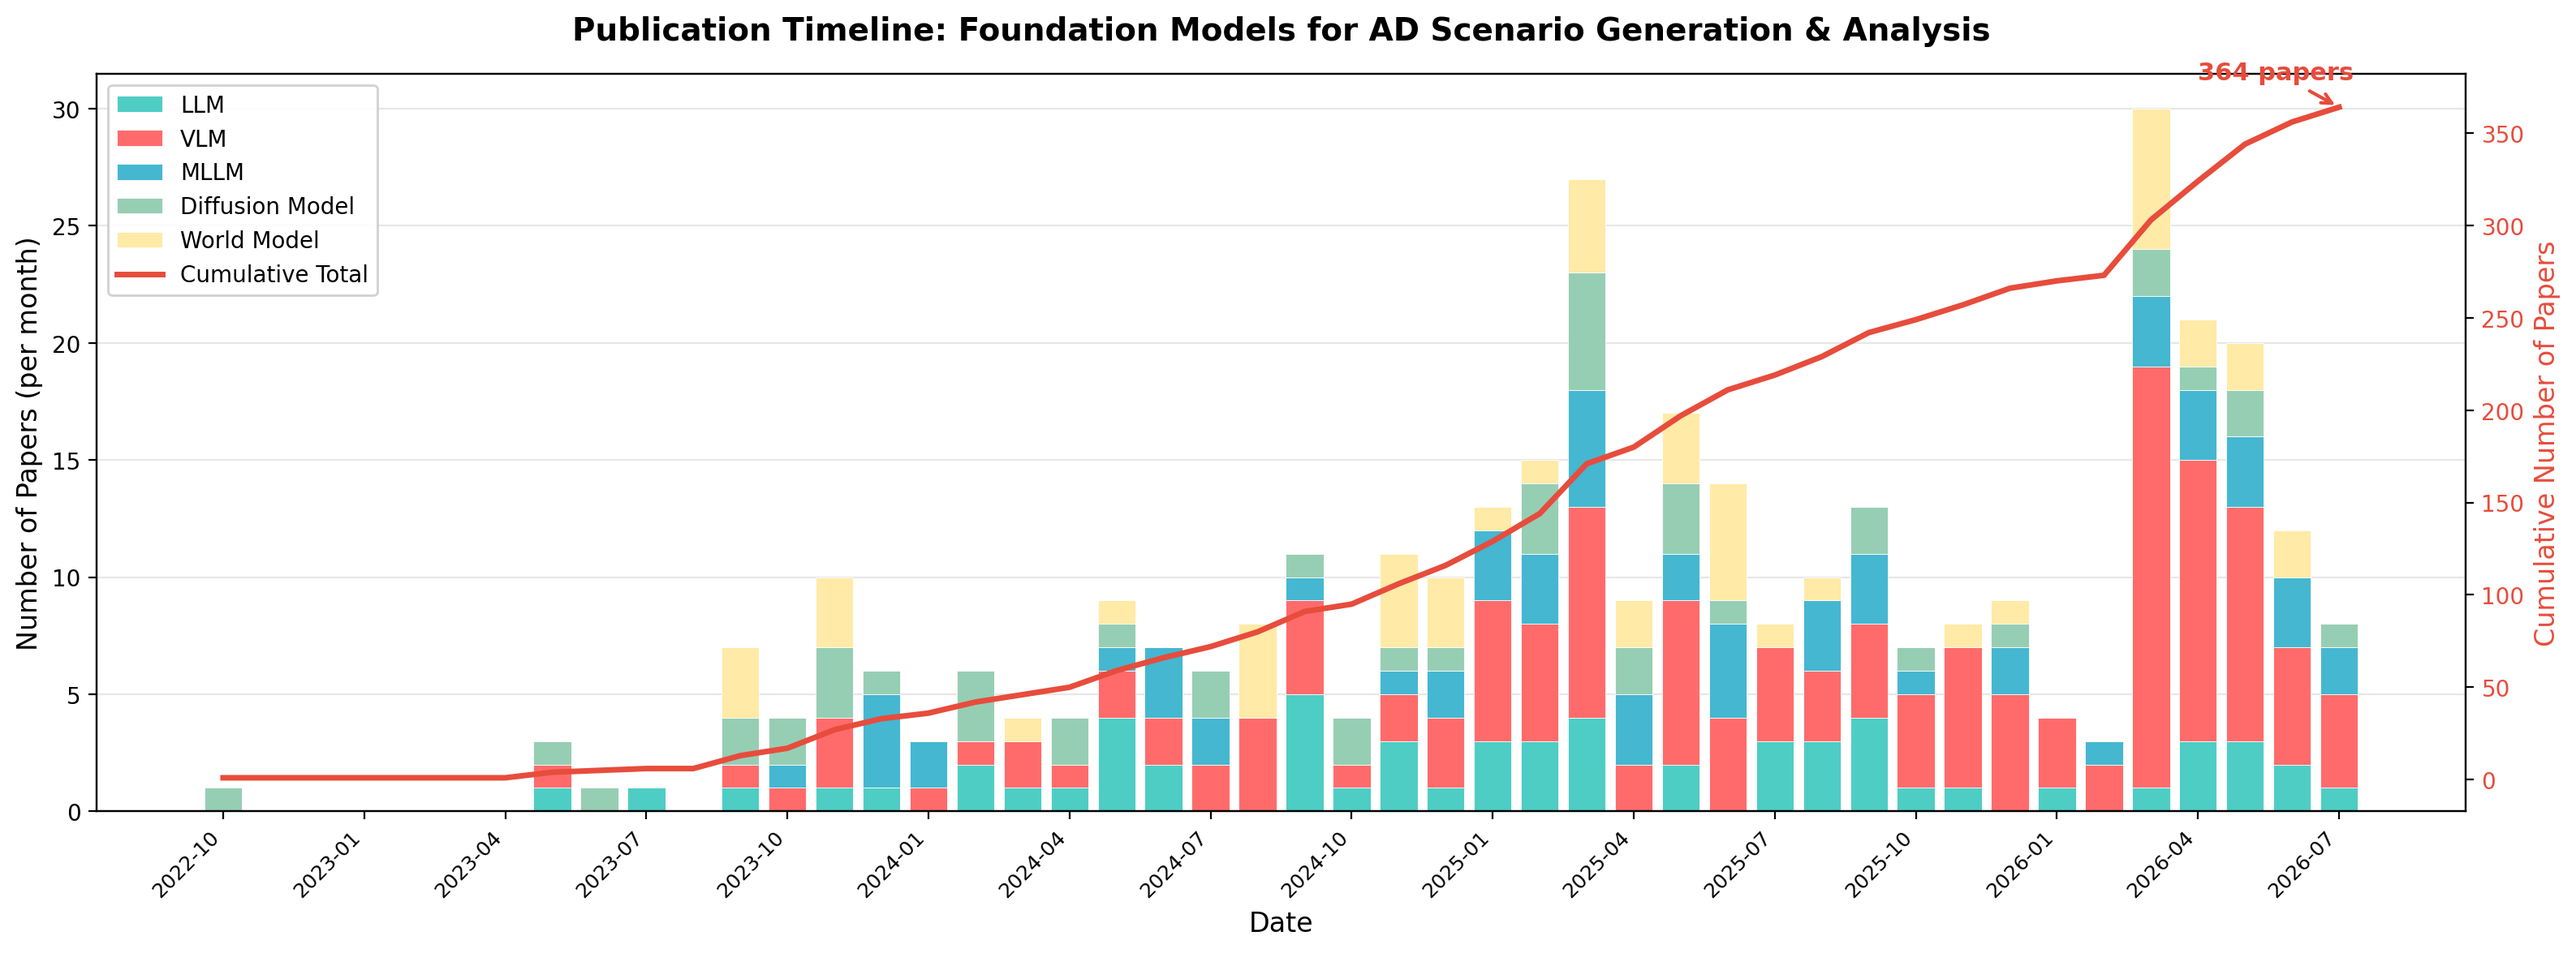
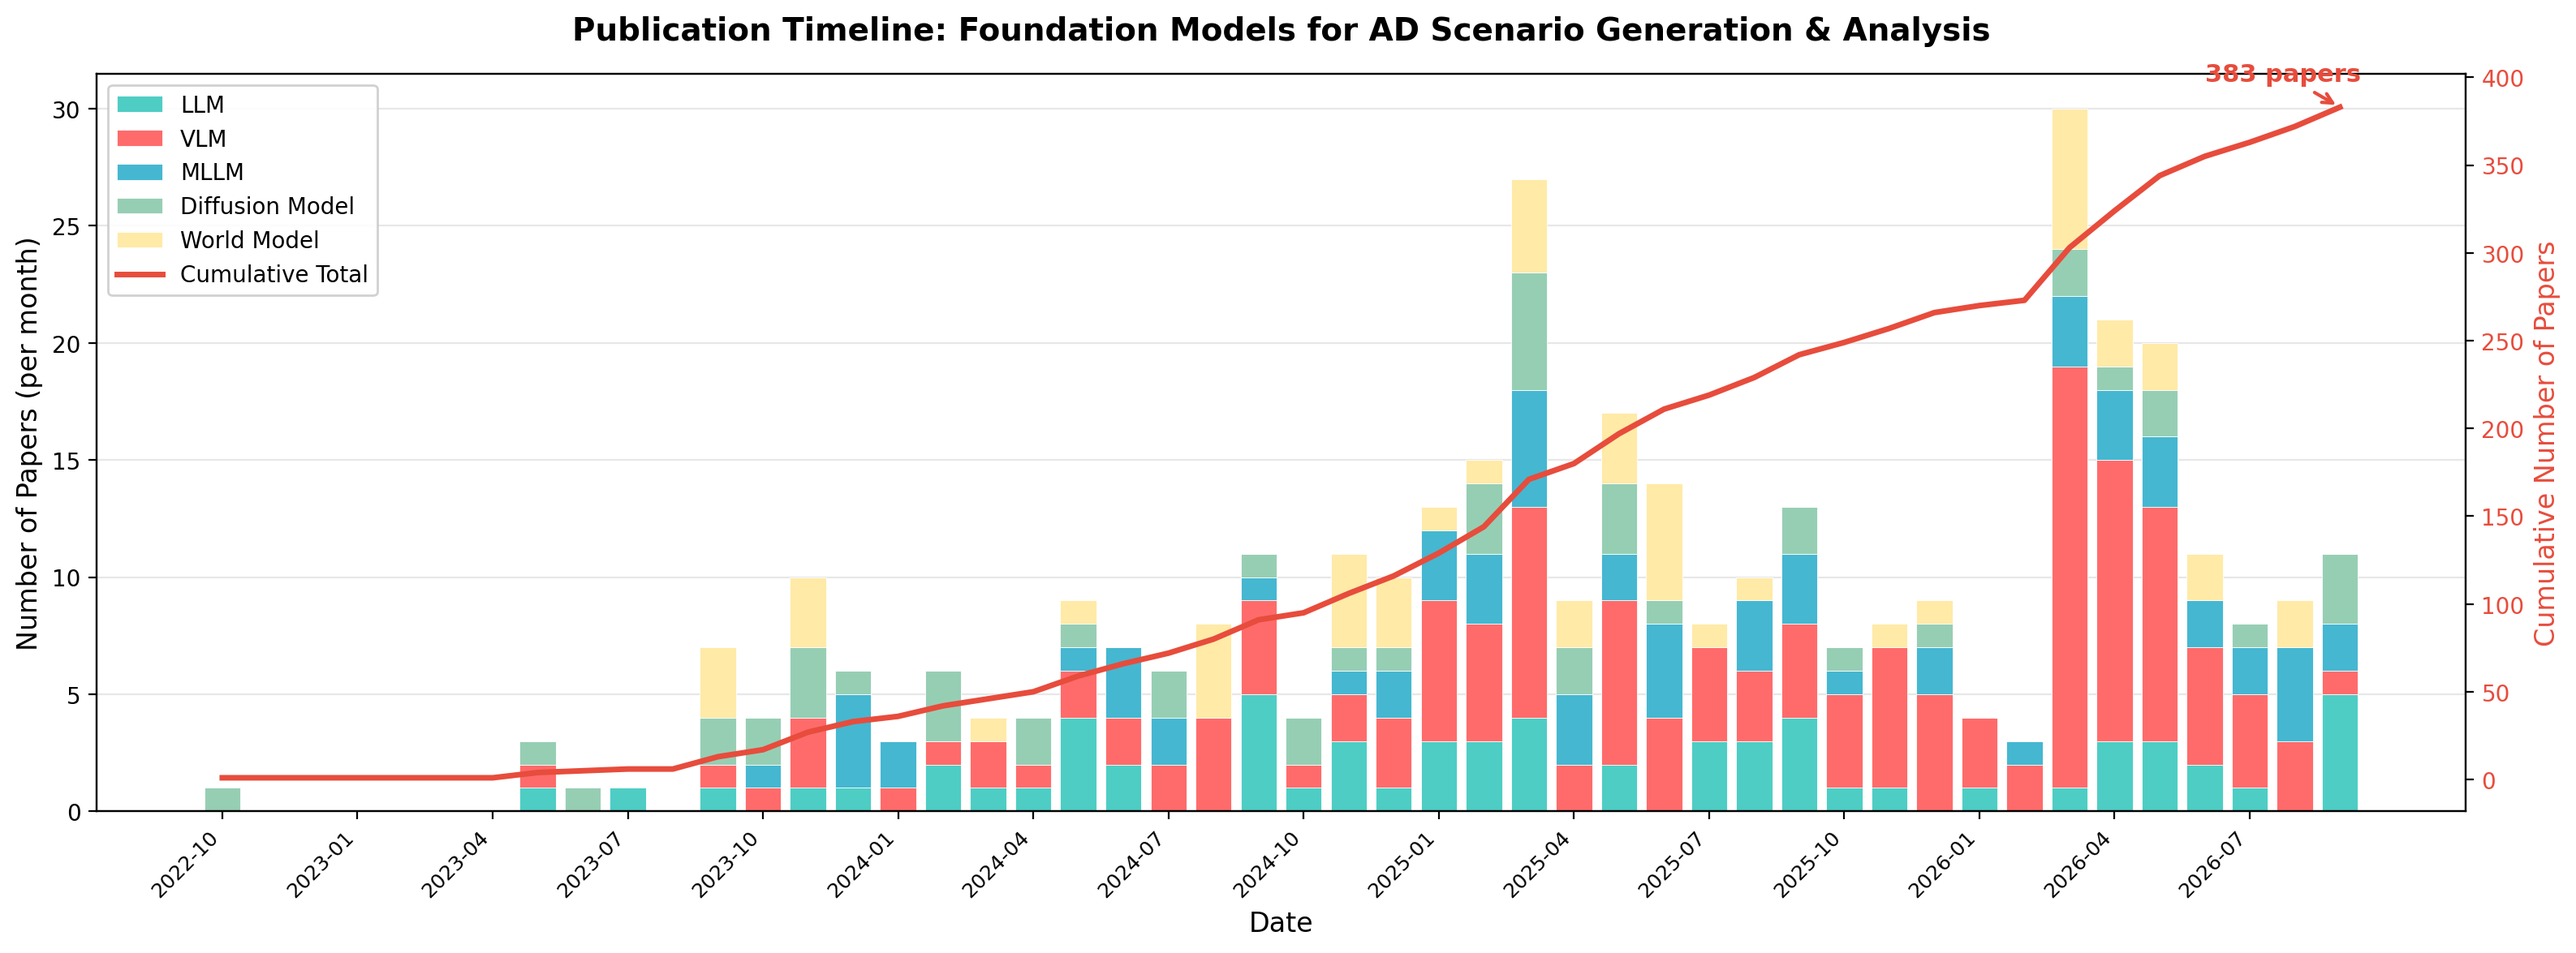
Add 20 new papers (9 generation + 11 analysis) from August 2026 and regenerate timeline

diff --git a/README.md b/README.md
@@ -19,6 +19,7 @@ This repository will collect research, implementations, and resources related to
 <img src="Assets/paper_timeline.png" width="100%" height="auto"/>
 </p>
 
+- **Aug. 2026** – Added **9 new papers** on scenario generation* and **11 new papers** on scenario analysis*.
 - **Jul. 2026** – Added **4 new papers** on scenario generation* and **14 new papers** on scenario analysis*.
 - **Jun. 2026** – Added **33 new papers** on scenario analysis* (monthly backlog catch-up spanning Dec 2023 – Jun 2026).
 - **May 2026** – Added **7 new papers** on scenario generation* and **19 new papers** on scenario analysis*.
@@ -145,6 +146,10 @@ The figure illustrates the evolution of foundation models. **LLMs** (e.g., BERT,
 | [Traffic Scenario Orchestration from Language via Constraint Satisfaction](https://arxiv.org/abs/2605.06966) | 2026-05 | arXiv | - | - | 0 |
 | [PCASim: Promptable Closed-loop Adversarial Simulation for Urban Traffic Environment](https://arxiv.org/abs/2605.15654) | 2026-05 | arXiv | [Project](https://zhenhaooo.github.io/PCASim.github.io/) | - | 0 |
 | [TrafficAlign: Aligning Large Language Models for Traffic Scenario Generation](https://github.com/TrafficComposer/TrafficAlign) | 2026-06 | CVPR 2026 | [GitHub](https://github.com/TrafficComposer/TrafficAlign) | - | 0 |
+| [REARL: A Closed-loop Autonomous Driving Simulation Enhancement Framework with Real Traffic Data and Large Language Models](https://arxiv.org/abs/2609.19903) | 2026-09 | arXiv | - | - | 0 |
+| [LLM-Guided Transformation of Non-Critical Driving Scenes into Safety-Critical Scenarios Using Augmented Reality](https://arxiv.org/abs/2609.20318) | 2026-09 | arXiv | - | - | 0 |
+| [SimSkill: A Self-Evolving LLM Agent for Skill and Knowledge Accumulation in Traffic Simulation](https://arxiv.org/abs/2609.03753) | 2026-09 | arXiv | [GitHub](https://github.com/qiliuchn/SimSkill-V1) | M1 Max & API | 0 |
+| [PlannerForge: LLM Agents for Scenario-Based Testing of Motion Planners in Autonomous Driving](https://arxiv.org/abs/2609.08965) | 2026-09 | EMNLP 2026 | [GitHub](https://github.com/TUM-AVS/PlannerForge) | RTX5090 & API | 0 |
 </details>
 
 <details open>
@@ -171,6 +176,7 @@ The figure illustrates the evolution of foundation models. **LLMs** (e.g., BERT,
 | [Pedestrian-Aware LLM-Driven Behavioral Planning for Autonomous Vehicles](https://arxiv.org/abs/2605.16858) | 2026-05 | IEEE ITSC 2026 | - | - | 0 |
 | [AutoMine Solution for AV2 2026 Scenario Mining Challenge](https://arxiv.org/abs/2606.11874) | 2026-06 | arXiv | - | - | 0 |
 | [A knowledge-augmented dataset of high-risk driving scenarios with LLM annotations for autonomous driving](https://arxiv.org/abs/2607.07103) | 2026-07 | arXiv | [GitHub](https://github.com/benmagnifico/K-Risk) | - | 0 |
+| [SAFARI: An Industrial Benchmark for LLM-Assisted Hazard Analysis and Risk Assessment](https://arxiv.org/abs/2609.20584) | 2026-09 | arXiv | [GitHub](https://github.com/xixi47520-hash/HARA) | API | 0 |
 </details>
 
 ## 🌟 Vision-Language Models for Autonomous Driving
@@ -331,6 +337,10 @@ The figure illustrates the evolution of foundation models. **LLMs** (e.g., BERT,
 | [AUTOPILOT VQA: Benchmarking Vision-Language Models for Incident-Centric Dashcam Understanding](https://arxiv.org/abs/2607.08745) | 2026-07 | arXiv | - | - | 0 |
 | [DispatchRAG: Grounding Emergency Dispatch Decisions in Real-World Protocols from Traffic Accident Video](https://arxiv.org/abs/2607.23132) | 2026-07 | arXiv | - | - | 0 |
 | [Reasoning to Regulate: Chain-of-Thought for Traffic Rule Understanding](https://arxiv.org/abs/2607.24199) | 2026-07 | arXiv | - | - | 0 |
+| [CAViAR: A Causal Video Dataset for Fine-Grained Accident Reasoning in Real-World Scenarios](https://arxiv.org/abs/2608.19380) | 2026-08 | arXiv | [GitHub](https://github.com/nec-labs-ma/CAViAR) | - | 0 |
+| [Observe Before You Alert: Adaptive Driver Alerting with Vision-Language Models](https://arxiv.org/abs/2609.08130) | 2026-09 | arXiv | - | RTX5090 | 0 |
+| [CrossView: Can Vision-Language Models Reason Across Cameras?](https://arxiv.org/abs/2608.15539) | 2026-08 | arXiv | [GitHub](https://utaustin-swarmlab.github.io/CrossView) | API | 0 |
+| [SIREN-Bench: Behavior-Driven Generation and Evaluation of Emergency-Vehicle Interactions](https://arxiv.org/abs/2608.24094) | 2026-08 | arXiv | - | V100S | 0 |
 </details>
 
 ## 🌟 Multimodal Large Language Models for Autonomous Driving
@@ -409,6 +419,12 @@ The figure illustrates the evolution of foundation models. **LLMs** (e.g., BERT,
 | [OmniSpace: Efficient Geometry Awareness for Autonomous Vehicles MLLMs](https://arxiv.org/abs/2606.22617) | 2026-06 | arXiv | - | - | 0 |
 | [Beyond Scene Priors: Fine-Grained Traffic Scene Reasoning with Benchmarking and Query-Guided Small-Object Focus](https://arxiv.org/abs/2607.04149) | 2026-07 | arXiv | - | - | 0 |
 | [D3VL: Understanding Driving Scenes from 3D Time Series Data and Video with Language Models](https://arxiv.org/abs/2607.19528) | 2026-07 | arXiv | [Project](https://automotivesafety-lvlm.github.io) | - | 0 |
+| [Sim-to-Real Traffic Scene Understanding by Decoupling Semantics from Caption Generation with V-JEPA](https://arxiv.org/abs/2609.18562) | 2026-09 | arXiv | [GitHub](https://github.com/ThuongBuiRVC/Traffic-JEPA) | RTX6000 | 0 |
+| [Inter-3D VQA: A Roadside Multimodal Benchmark for 3D Spatiotemporally Grounded Visual Question Answering](https://arxiv.org/abs/2608.28762) | 2026-08 | arXiv | [GitHub](https://github.com/ASU-Suo-Lab/Inter-3D-VQA) | 4×RTX Pro 6000 | 0 |
+| [UniTraffic-Agent: Unified Traffic Video Reasoning for AI City Challenge 2026 Track 3 with Two Out-of-Domain Evaluations](https://arxiv.org/abs/2608.13031) | 2026-08 | arXiv | [GitHub](https://github.com/Roclp/UniTraffic-Agent) | API | 0 |
+| [CASCADE: A Spatio-Temporal-Causal Reasoning Representation and Dataset for Driving](https://arxiv.org/abs/2609.07094) | 2026-09 | arXiv | - | - | 0 |
+| [From Detection to Understanding: TAR and TAR-Bench for Multi-Task Traffic Anomaly Reasoning](https://arxiv.org/abs/2608.10317) | 2026-08 | arXiv | - | 8×A100 | 0 |
+| [Drive the Thoughts: Runtime Monitoring of VLA Reasoning-Trajectory Consistency](https://arxiv.org/abs/2608.29583) | 2026-08 | arXiv | [GitHub](https://github.com/776styjsu/drive-the-thoughts) | A100 & API | 0 |
 </details>
 
 ## 🌟 Diffusion Models for Autonomous Driving
@@ -465,6 +481,9 @@ The figure illustrates the evolution of foundation models. **LLMs** (e.g., BERT,
 | [DriveCtrl: Conditioned Sim-to-Real Driving Video Generation](https://arxiv.org/abs/2605.15116) | 2026-05 | arXiv | - | L40 | 0 |
 | [AnyScene: Towards Highly Controllable Driving Scene Generation at Anywhere and Beyond](https://arxiv.org/abs/2605.26113) | 2026-05 | arXiv | [Project](https://mind-omni.github.io/) | 8xA100 | 0 |
 | [SafeGen: Goal-Conditioned Video Diffusion of Safety-Critical Scenarios for VLM-Based Autonomous Driving](https://arxiv.org/abs/2607.19701) | 2026-07 | arXiv | [GitHub](https://github.com/JoFrc/SafeGen) | - | 0 |
+| [One Diffusion Model, Two Roles: Guided Trajectory Planning and Safety-Critical Scenario Generation in Closed-Loop Simulation](https://arxiv.org/abs/2609.04921) | 2026-09 | arXiv | - | - | 0 |
+| [CrashDiffuser: VLM-Guided Collision Intent Reasoning for Fine-Grained Safety-Critical Traffic Scenario Generation](https://arxiv.org/abs/2609.02270) | 2026-09 | arXiv | - | H200 | 0 |
+| [Safety-Critical Scenanrio Emerges from Initial Scene](https://arxiv.org/abs/2609.20103) | 2026-09 | arXiv | - | - | 0 |
 </details>
 
 <details open>
@@ -534,6 +553,8 @@ The figure illustrates the evolution of foundation models. **LLMs** (e.g., BERT,
 | [Xiaomi Auto World Model: A Joint World Model Integrating Reconstruction and Generation for Autonomous Driving](https://arxiv.org/abs/2605.18137) | 2026-05 | arXiv | [Project](https://JointWM.github.io) | - | 0 |
 | [Diffusion Transformer World-Action Model for AV Scene Prediction](https://arxiv.org/abs/2606.12987) | 2026-06 | arXiv | [GitHub](https://github.com/dlcv-team/latent-world-models-av) | - | 0 |
 | [ReactSim-Bench: Benchmarking Reactive Behavior World Model Simulation in Autonomous Driving](https://arxiv.org/abs/2606.14058) | 2026-06 | arXiv | [GitHub](https://github.com/Thinklab-SJTU/ReactSim-Bench) | - | 0 |
+| [GaussianDWM++: Language-Grounded 3D Gaussian Driving World Model for Unified Scene Understanding, Editing, and Multi-Modal Generation](https://arxiv.org/abs/2608.16234) | 2026-08 | arXiv | [GitHub](https://github.com/dtc111111/GaussianDWM) | 16×A100 | 0 |
+| [4D-WAM: 4D Consistent World Modeling for Autonomous Driving](https://arxiv.org/abs/2608.10107) | 2026-08 | arXiv | - | 16×H200 | 0 |
 </details>
 
 ## 📊 Datasets Comparison
